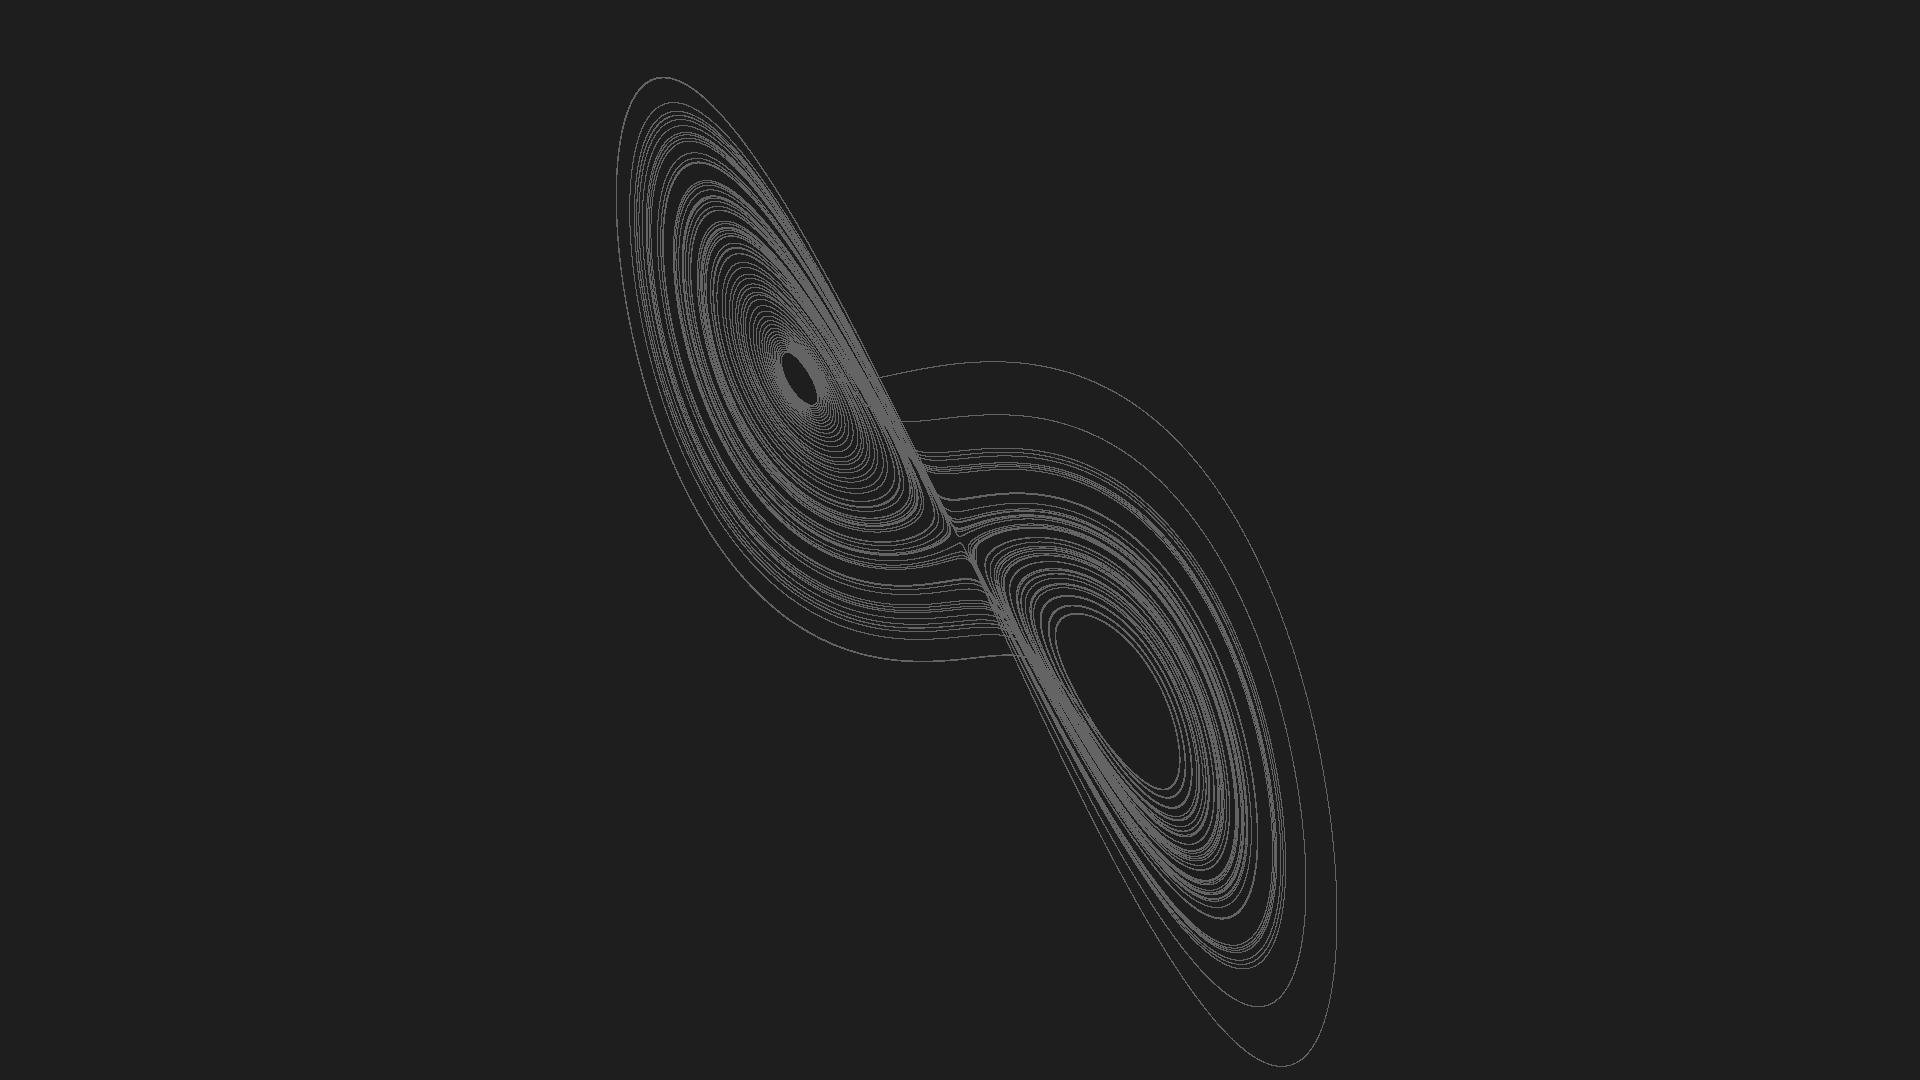
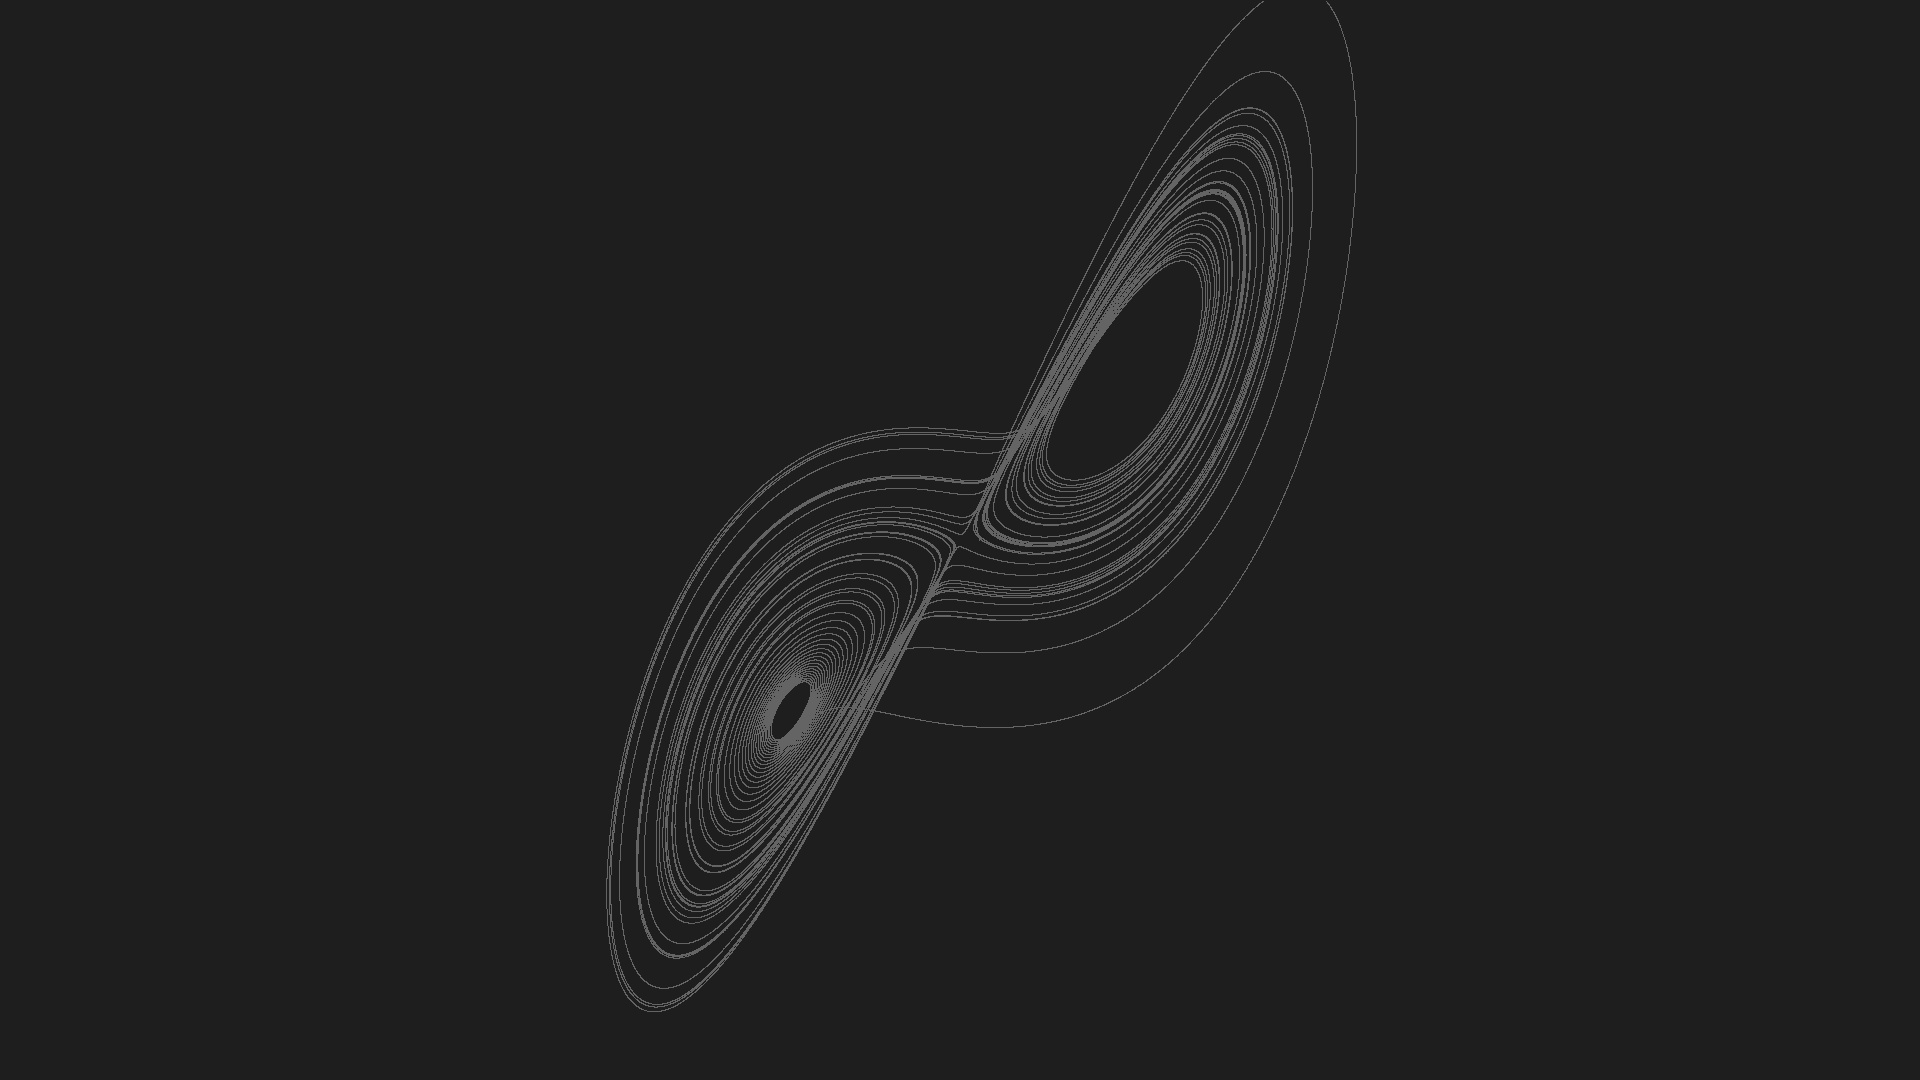
Use 4 chanels rgba type
It will allow to play with transparency.
Little bit of tidying up(no more warnings 😉)

Changed region(s): [[0.3125, 0.0917, 0.6875, 0.9167]]

diff --git a/src/main.rs b/src/main.rs
@@ -1,59 +1,51 @@
 extern crate image;
 
-const sigma: f64 = 10.0;
-const rho: f64 = 28.0;
-const beta: f64 = 8.0 / 3.0;
+use image::{ImageBuffer, Rgba};
 
-const dt: f64 = 0.0001;
+const SIGMA: f64 = 10.0;
+const RHO: f64 = 28.0;
+const BETA: f64 = 8.0 / 3.0;
 
-const background: u8 = 30;
+const WIDTH: u32 = 1920;
+const HEIGHT: u32 = 1080;
+
+const BACKGROUND: [u8; 4] = [30, 30, 30, 255];
+
+const SCALE: f64 = 20.0;
 
 fn main() {
     // use some random data
     let mut x: f64 = 1.0;
     let mut y: f64 = 0.0;
     let mut z: f64 = 0.0;
+    let dt = 0.0001;
 
-    let imgx = 1920;
-    let imgy = 1080;
+    let r: u8 = 100;
+    let g: u8 = 100;
+    let b: u8 = 100;
 
-    // Create a new ImgBuf with width: imgx and height: imgy
-    let mut imgbuf = image::ImageBuffer::new(imgx, imgy);
+    // Create a new ImgBuf
+    let mut imgbuf: ImageBuffer<Rgba<u8>, Vec<u8>> = ImageBuffer::new(WIDTH, HEIGHT);
 
-    // Iterate over the coordinates and pixels of the image
-    for (x, y, pixel) in imgbuf.enumerate_pixels_mut() {
-        *pixel = image::Rgb([background, background, background]);
+    // Fill with background
+    for (_x, _y, pixel) in imgbuf.enumerate_pixels_mut() {
+        *pixel = Rgba(BACKGROUND);
     }
 
-    let mut r: u8 = 100;
-    let mut g: u8 = 100;
-    let mut b: u8 = 100;
+    for _n in 1..600000 {
+        // Lorenz system
+        x = (SIGMA * (y - x)) * dt + x;
+        y = (x * (RHO - z) - y) * dt + y;
+        z = (x * y - BETA * z) * dt + z;
 
-    for _n in 1..900000 {
-        let dx = (sigma * (y - x)) * dt;
-        let dy = (x * (rho - z) - y) * dt;
-        let dz = (x * y - beta * z) * dt;
-        x = dx + x;
-        y = dy + y;
-        z = dz + z;
+        let coordinate_x = (x * SCALE + WIDTH as f64 / 2.0) as u32;
+        let coordinate_y = (y * SCALE + HEIGHT as f64 / 2.0) as u32;
 
-        let pixel = imgbuf.get_pixel_mut((x * 19.0 + 960.0) as u32, (y * 19.0 + 540.0) as u32);
-        *pixel = image::Rgb([r, g, b]);
-
-        // if r > 0 && b == 55 {
-        //     r = r - 1;
-        //     g = g + 1;
-        // }
-
-        // if g > 0 && r == 55 {
-        //     g = g - 1;
-        //     b = b + 1;
-        // }
-
-        // if b > 0 && g == 55 {
-        //     r = r + 1;
-        //     b = b - 1;
-        // }
+        // skip out of bounds coordinates
+        if coordinate_x < WIDTH && coordinate_y < HEIGHT {
+            let pixel = imgbuf.get_pixel_mut(coordinate_x, HEIGHT - coordinate_y);
+            *pixel = Rgba([r, g, b, 255]);
+        }
     }
 
     imgbuf.save("lorenz_system.png").unwrap()
